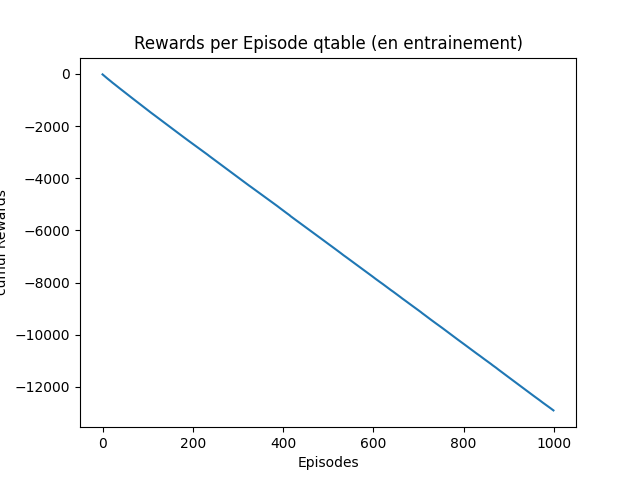
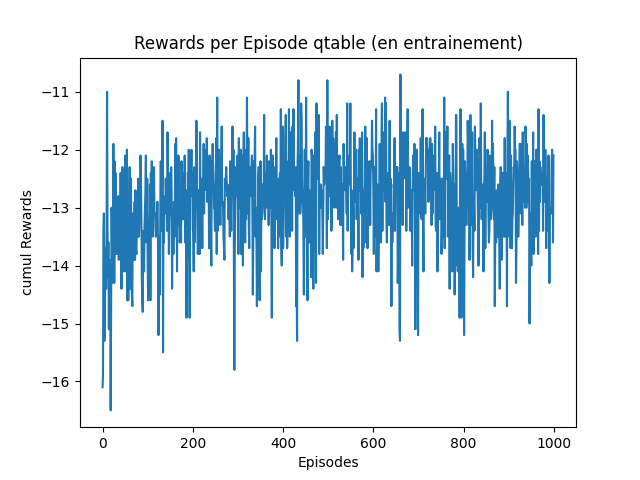
to ppti

diff --git a/src/qagent.py b/src/qagent.py
@@ -29,8 +29,9 @@ class Qagent:
 
     def train(self):
         rewards_perepisode = []
-        cum_reward = 0
         for i in tqdm(range(self.episodes)):
+            cum_reward = 0
+
             state,_ = self.env.reset()
             for j in range(self.max_steps):
                 action = self.epsilon_greedy(state)
@@ -133,13 +134,13 @@ def main():
 
     plt.figure()
     plt.plot(rewards_perepisode)
-    # plt.xlabel('Episodes')
-    # plt.ylabel('cumul Rewards')
-    # plt.title('Rewards per Episode qtable (en entrainement)')
-    # plt.savefig('../Graphiques/rewards_per_episode_qlearning.png')
+    plt.xlabel('Episodes')
+    plt.ylabel('cumul Rewards')
+    plt.title('Rewards per Episode qtable (en entrainement)')
+    plt.savefig('../Graphiques/rewards_per_episode_qlearning.png')
 
     agent.one_run()
     # agent.env.show_traj()
     agent.env.plot_vitesse()
     
-# main()
+main()

diff --git a/src/qagentnn.py b/src/qagentnn.py
@@ -26,7 +26,7 @@ class Qagent:
                  do_test = True, 
                  nb_test = 100, 
                  batch_size = 1000, 
-                 target_update_freq = 100,
+                 target_update_freq = 10,
                  memory_size=10000):
         
         self.env= env
